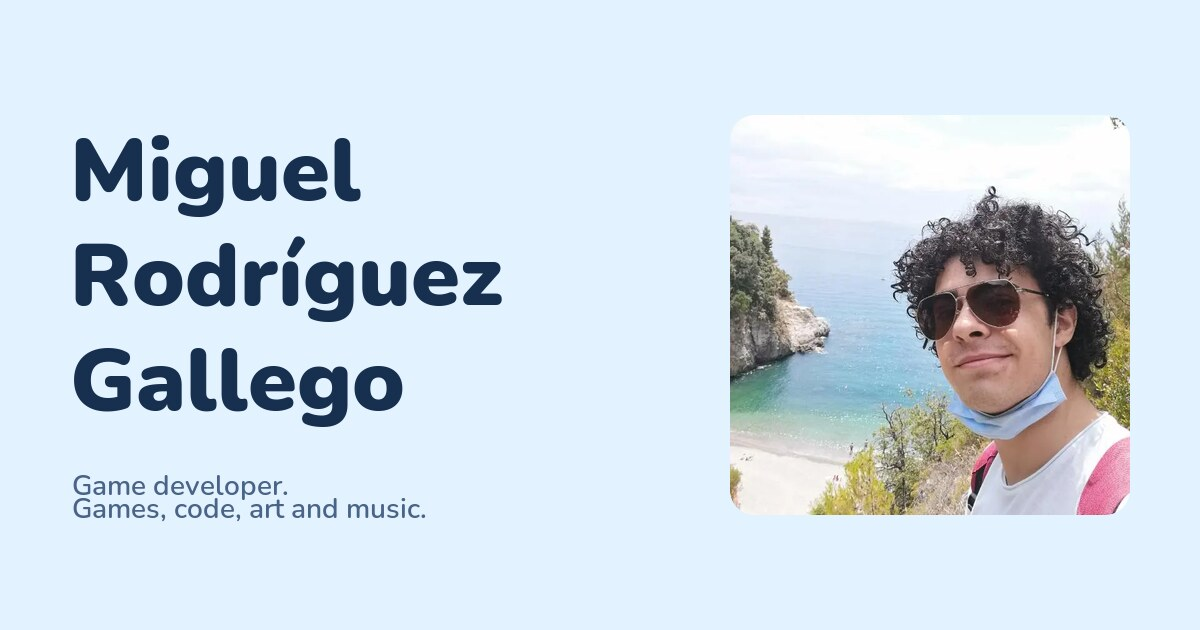
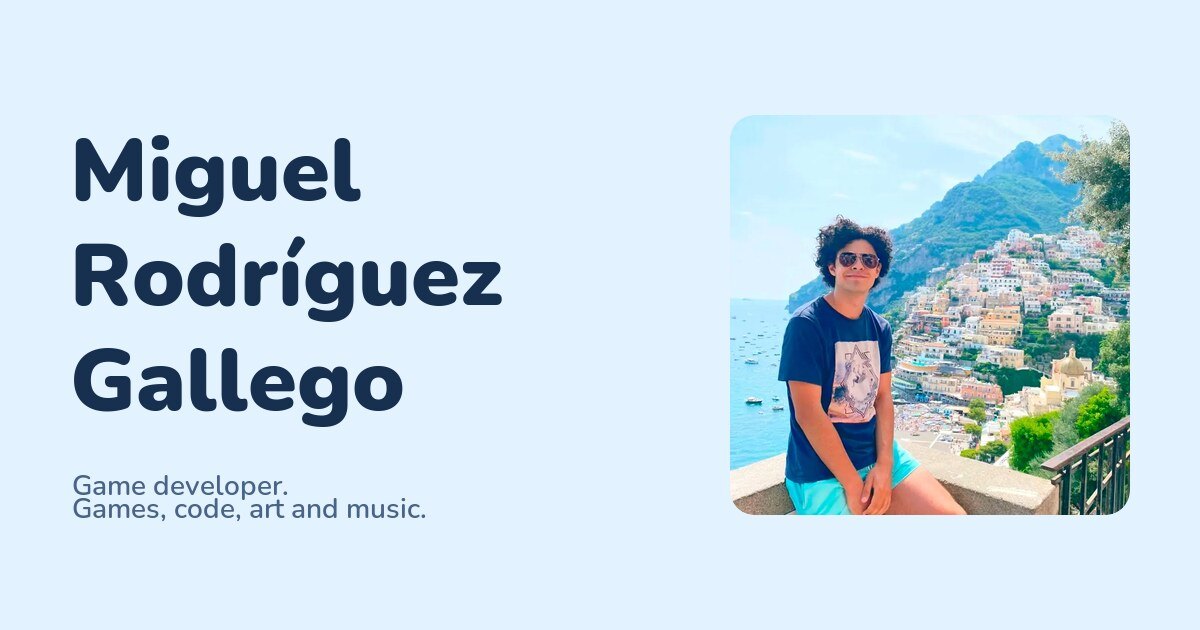
Use the Positano photo as the cover portrait

Changed region(s): [[0.5858, 0.181, 0.9558, 0.8444]]

diff --git a/index.html b/index.html
@@ -41,7 +41,7 @@
                 <p class="lead">Game developer from Vigo. I make games in Unity and C#, and the art, code and music that go into them.</p>
             </div>
             <figure class="hero-photo">
-                <img src="assets/img/portrait.webp" alt="Miguel smiling in sunglasses by the sea" width="640" height="640">
+                <img src="assets/img/portrait.webp" alt="Miguel sitting on a wall above the coast of Positano" width="800" height="800">
             </figure>
         </section>
 
@@ -74,7 +74,7 @@
                 <p>Away from the engine I draw, make 3D models, produce music and DJ. I like learning new things and I try to do each one a little better than the last.</p>
                 <p>I speak Spanish and Galician natively, and English.</p>
             </div>
-            <img src="assets/img/positano.webp" alt="Miguel sitting on a wall above the coast of Positano" width="900" height="1200" loading="lazy">
+            <img src="assets/img/about.webp" alt="Miguel smiling in sunglasses by the sea" width="640" height="640" loading="lazy">
         </section>
     </main>
 
